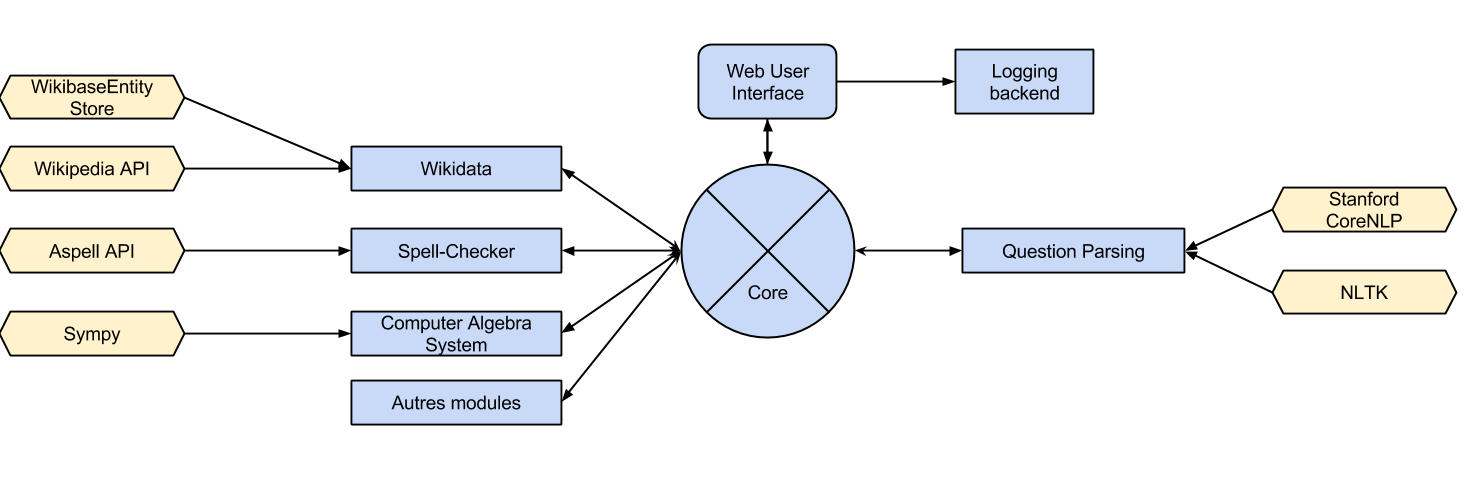
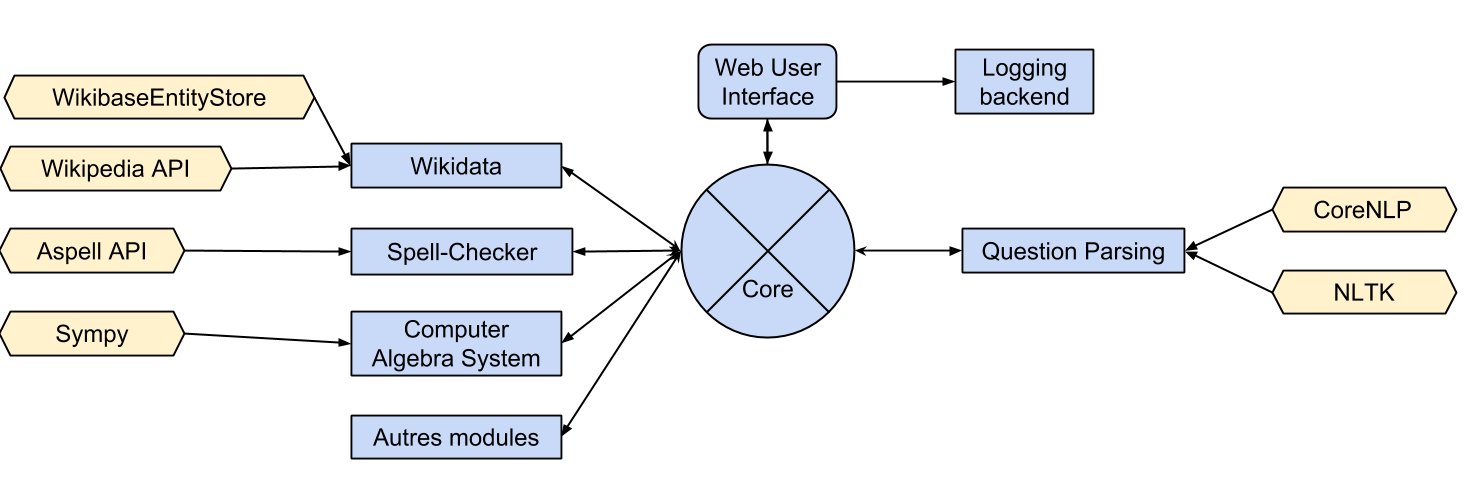
Améliorations

diff --git a/JDLL/conclusion.tex b/JDLL/conclusion.tex
@@ -8,41 +8,12 @@
     \end{center}
 \end{frame}
 
-\begin{frame}
-    \frametitle{Nested question}
-
-Who is the wife of the president of the United States?
-    \begin{tabular}{ll}
-        \alert{WolframAlpha} & Barack Obama\\
-        \alert{Platypus} & Michelle Obama\\
-    \end{tabular}
-
-    \medbreak
-
-    \onslide<2->{
-        What are the birth dates of the daughters of the wife of the president of the United States?
-        \begin{tabular}{ll}
-            \alert{WolframAlpha} & Barack Obama\\
-            \alert{Platypus} & Saturday, July 4, 1998 \& Sunday, June 10, 2001\\
-        \end{tabular}
-    }
-\end{frame}
-
-\begin{frame}
-    \frametitle{Conjunction}
-
-Who is the actor of Inception and Titanic?
-    \begin{tabular}{ll}
-        \alert{WolframAlpha} & all the actors of the two movies\\
-        \alert{Platypus} & Leonardo DiCaprio\\
-    \end{tabular}
-\end{frame}
-
+\section{Concluons !}
 
 \subsection{Projets}
 
 \begin{frame}
-    \frametitle{Plus de données}
+    \frametitle{Plus de résultats}
 
     Pas de réponse via \alert{Wikidata}:
     \begin{itemize}
@@ -87,14 +58,14 @@ Who is the actor of Inception and Titanic?
 \newlength{\logosize}
 \setlength{\logosize}{12pt}
 \begin{frame}
-    \frametitle{Questions?}
-    
+    \frametitle{Questions?}  
     \begin{columns}
     \begin{column}{0.55\textwidth}
-        \alert{\url{http://projetpp.github.io/}}\vspace{5pt}
+        \alert{\url{http://projetpp.github.io}}\vspace{5pt}
         \begin{tabular}{ll}
             \includegraphics[width=\logosize]{Twitter_logo_blue.png} & \href{https://twitter.com/ProjetPP}{https://twitter.com/ProjetPP}\\
             \includegraphics[width=\logosize]{GitHub-Mark-32px.png} &  \href{https://github.com/ProjetPP}{https://github.com/ProjetPP}\\
+            \includegraphics[width=\logosize]{figures/forum.png} &  \href{http://discourse.askplatyp.us}{http://discourse.askplatyp.us}\\
             \includegraphics[width=\logosize]{ic_email_black_18dp.png} & \href{mailto:askplatyp.us}{contact@askplatyp.us}\\
         \end{tabular}
     \end{column}
@@ -104,65 +75,7 @@ Who is the actor of Inception and Titanic?
     \end{columns}
 \end{frame}
 
-\iffalse
-\begin{frame}
-    \tikzset{
-        workpackage/.style={
-               node distance = 0.5cm,
-               },
-    }
-    \frametitle{WorkPackages}
-    \begin{figure}
-        \begin{tikzpicture}
-            % PPP members
-            \node (rc)                  {Raphaël \textsc{Charrondière}};
-            \node (qc)  [below of = rc] {Quentin \textsc{Cormier}};
-            \node (tc)  [below of = qc] {Tom \textsc{Cornebize}};
-            \node (yh)  [below of = tc] {Yassine \textsc{Hamoudi}};
-            \node (mc)  [below of = yh] {Marc \textsc{Chevalier}};
-            \node (vl)  [below of = mc] {Valentin \textsc{Lorentz}};
-            \node (tpt) [below of = vl] {Thomas \textsc{Pellissier} \textsc{Tanon}};
-
-            % PPP WorkPackages
-            \node (reformulation)   [workpackage, right of = rc, right=3cm]  {Reformulation};
-            \node (standalone)      [workpackage, below of = reformulation]  {Standalone};
-            \node (spellchecker)    [workpackage, below of = standalone]     {SpellChecker};
-            \node (communication)   [workpackage, below of = spellchecker]   {Communication};
-            \node (grammatical)     [workpackage, below of = communication]  {Grammatical};
-            \node (bibliography)    [workpackage, below of = grammatical]    {Bibliography};
-            \node (cas)             [workpackage, below of = bibliography]   {CAS};
-            \node (datamodel)       [workpackage, below of = cas]            {DataModel};
-            \node (architecture)    [workpackage, below of = datamodel]      {Architecture};
-            \node (core)            [workpackage, below of = architecture]   {Core};
-            \node (sysadmin)        [workpackage, below of = core]           {System Administration};
-            \node (wikidata)        [workpackage, below of = sysadmin]       {Wikidata};
-            \node (webui)           [workpackage, below of = wikidata]       {WebUI};
-
-            % Edges
-            \path (reformulation.west)   edge (rc.east)
-                  (standalone.west)      edge (qc.east)
-                  (spellchecker.west)    edge (tc.east)
-                  (communication.west)   edge (tc.east)
-                  (grammatical.west)     edge (tc.east)
-                  (grammatical.west)     edge (yh.east)
-                  (bibliography.west)    edge (yh.east)
-                  (datamodel.west)       edge (yh.east)
-                  (datamodel.west)       edge (mc.east)
-                  (datamodel.west)       edge (vl.east)
-                  (datamodel.west)       edge (tpt.east)
-                  (architecture.west)    edge (mc.east)
-                  (architecture.west)    edge (vl.east)
-                  (architecture.west)    edge (tpt.east)
-                  (cas.west)             edge (mc.east)
-                  (core.west)            edge (vl.east)
-                  (sysadmin.west)        edge (vl.east)
-                  (wikidata.west)        edge (vl.east)
-                  (wikidata.west)        edge (tpt.east)
-                  (webui.west)           edge (tpt.east);
-        \end{tikzpicture}
-    \end{figure}
-\end{frame}
-
+%\iffalse
 \begin{frame}
     \begin{center}
         \Huge Demo time!
@@ -184,12 +97,13 @@ Who is the actor of Inception and Titanic?
 \begin{frame}
     \begin{center}
     \begin{tabular}{ccc}
-        \visible<1->{\includegraphics[width=0.3\linewidth]{figures/platypus.pdf}} &
-        \visible<2->{ \Huge VS} &
-        \visible<3->{\includegraphics[width=0.3\linewidth]{figures/wa-logo-stacked2-large.png}}
+        \includegraphics[width=0.3\linewidth]{figures/platypus.pdf} &
+        \Huge VS &
+        \includegraphics[width=0.3\linewidth]{figures/wa-logo-stacked2-large.png}
     \end{tabular}
     \end{center}
 \end{frame}
+
 
 \begin{frame}
     \frametitle{Nested question}
@@ -211,7 +125,7 @@ Who is the wife of the president of the United States?
     }
 \end{frame}
 
-\begin{frame}[fragile]
+\begin{frame}
     \frametitle{Conjunction}
 
 Who is the actor of Inception and Titanic?
@@ -220,34 +134,3 @@ Who is the actor of Inception and Titanic?
         \alert{Platypus} & Leonardo DiCaprio\\
     \end{tabular}
 \end{frame}
-
-\subsection{Spell checker}
-
-\begin{frame}[fragile]
-    \frametitle{Spell Checker}
-    Based on \alert{GNU Aspell}.
-
-    \medbreak
-
-    \onslide<2->{
-        What are the langajes of Soth Afryka?
-
-        $\rightarrow$
-
-        What are the languages of South Africa?
-    }
-
-    \medbreak
-
-    \onslide<3->{\alert{120 lines of code} $\Rightarrow$ quickness of module creation.}
-\end{frame}
-
-\subsection{ML Reformulation - Learn}
-
-\begin{frame}
-\frametitle{Training}
-\alert{Semantic distance.}
-
-Use relation graph ``instance of'' from Wikidata.
-\end{frame} 
-\fi

diff --git a/JDLL/introduction.tex b/JDLL/introduction.tex
@@ -7,7 +7,7 @@
 \end{frame}
 
 \begin{frame}
-    \frametitle{Outils existants}
+    \frametitle{Outils existants sur le web}
     \begin{tabular}{ll}
         WolframAlpha & Marie Pasteur\\
         Google & Article Wikipedia sur Marie Pasteur\\
@@ -15,13 +15,13 @@
         Yahoo & Page d'answers.com contenant la question
     \end{tabular}
 \medbreak
-\alert{Logiciels propriétaire, parfois mauvais...}
+\alert{Logiciels propriétaires, non réutilisables...}
 \end{frame}
 
 \begin{frame}
     \frametitle{Platypus}
     \begin{center}
-        \url{http://askplatyp.us}
+        \alert{\url{http://askplatyp.us}}
         
         \bigskip
         
@@ -33,6 +33,7 @@
     \frametitle{Platypus ?}
     \begin{itemize}
         \item<1-> \alert{Open-source}
+        \item<2-> Créé à l'\alert{ENS de Lyon}
         \item<2-> \alert{Modulaire}
         \item<3-> \alert{Anglais} pour l'instant
         \item<4-> \alert{Connaissance générale} et math
@@ -43,16 +44,4 @@
     \begin{center}
         \Huge Et la démo !
     \end{center}
-\end{frame}
-
-\begin{frame}[plain]
-    \includegraphics[width=\linewidth]{figures/demo-whoIsAlanTuring.png}
-\end{frame}
-
-\begin{frame}[plain]
-    \includegraphics[width=\linewidth]{figures/demo-whenIsAlanTuringBorn.png}
-\end{frame}
-
-\begin{frame}[plain]
-    \includegraphics[width=\linewidth]{figures/demo-whereIsEnsLyon.png}
 \end{frame}

diff --git a/JDLL/overview.tex b/JDLL/overview.tex
@@ -1,6 +1,7 @@
 \begin{frame}[fragile]
     \frametitle{Architecture}
     \begin{figure}
+        % https://docs.google.com/drawings/d/1XTHL8r_9AXXCONEQVuuL2jydSE_qI4UGeN33D8yPutQ/edit
         \includegraphics[scale=.21]{figures/architecture}
     \end{figure}
 \end{frame}
@@ -53,12 +54,19 @@
 \begin{frame}
    \frametitle{Extraction de la réponse : Wikidata}
 
-    Wikidata ?
+    \begin{columns}
+    \begin{column}{0.55\textwidth}
+     Wikidata ?
     \begin{itemize}
         \item \alert{\url{http://www.wikidata.org}}
         \item Une base de \alert{connaissance libre}
         \item \alert{Multilingue}
     \end{itemize}
+    \end{column}
+    \begin{column}{0.5\textwidth}
+        \includegraphics[width=\linewidth]{figures/Wikidata-logo.png}
+    \end{column}
+    \end{columns}
 \end{frame}
 
 \begin{frame}
@@ -108,5 +116,5 @@
 
 \begin{frame}
     \frametitle{Math}
-    TODO
+    \includegraphics[width=\linewidth]{figures/math.png}
 \end{frame}

diff --git a/JDLL/pppDemo.tex b/JDLL/pppDemo.tex
@@ -38,8 +38,8 @@
 
 \usemintedstyle{trac}
 
-\title{Platypus, l'outil libre qui répond à vos questions}
-\subtitle{}
+\title{Platypus}
+\subtitle{L'outil libre qui répond à vos questions}
 \date{JDLL 2015}    
 
 \begin{document}
@@ -48,10 +48,10 @@
 
 \input{introduction}
 
-\section{Overview}
+\section{Aperçu}
 \input{overview}
 
-\section{Let's sum up}
+
 \input{conclusion}
 
 \end{document}
